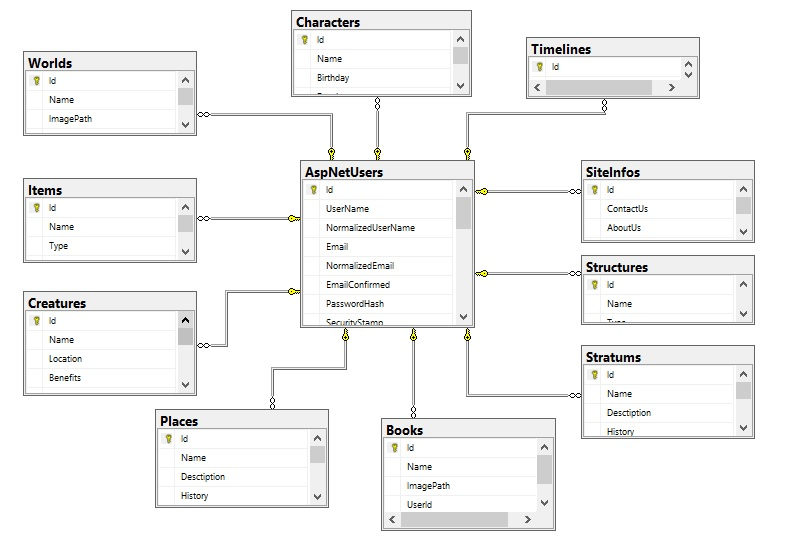
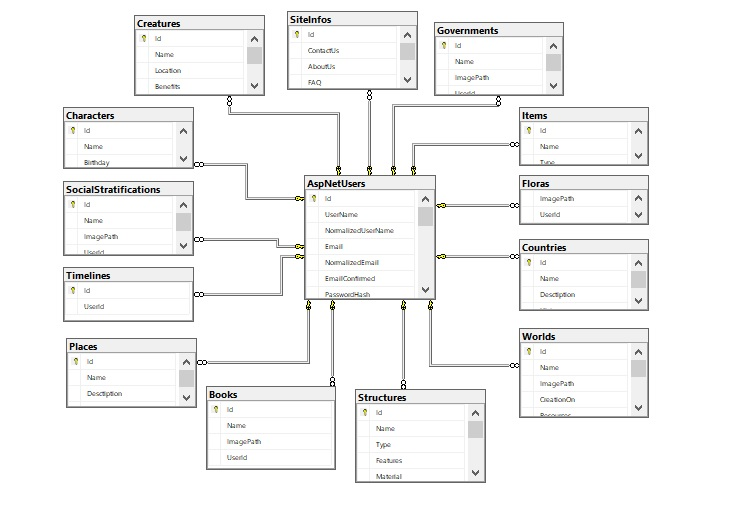
Added new classes: Country, Flora, Government Renamed class "Stratum" to "SocialStratification" Tidying-up (Refactoring)

Changed region(s): [[0.0308, 0.0, 0.9558, 1.0]]

diff --git a/WritersCorner.Data/Context/WritersCornerContext.cs b/WritersCorner.Data/Context/WritersCornerContext.cs
@@ -19,10 +19,13 @@ namespace WritersCorner.Data.Context
 
         #region Book connections
         public DbSet<Character> Characters { get; set; }
+        public DbSet<Country> Countries { get; set; }
         public DbSet<Creature> Creatures { get; set; }
+        public DbSet<Flora> Floras { get; set; }
+        public DbSet<Government> Governments { get; set; }
         public DbSet<Item> Items { get; set; }
         public DbSet<Place> Places { get; set; }
-        public DbSet<Stratum> Stratums { get; set; }
+        public DbSet<SocialStratification> SocialStratifications { get; set; }
         public DbSet<Structure> Structures { get; set; }
         public DbSet<Timeline> Timelines { get; set; }
         public DbSet<World> Worlds { get; set; }
@@ -36,10 +39,13 @@ namespace WritersCorner.Data.Context
         {
             #region Book Configurations
             modelBuilder.ApplyConfiguration(new CharacterConfiguration());
+            modelBuilder.ApplyConfiguration(new CountryConfiguration());
             modelBuilder.ApplyConfiguration(new CreatureConfiguration());
+            modelBuilder.ApplyConfiguration(new FloraConfiguration());
+            modelBuilder.ApplyConfiguration(new GovernmentConfiguration());
             modelBuilder.ApplyConfiguration(new ItemConfiguration());
             modelBuilder.ApplyConfiguration(new PlaceConfiguration());
-            modelBuilder.ApplyConfiguration(new StratumConfiguration());
+            modelBuilder.ApplyConfiguration(new CountryConfiguration());
             modelBuilder.ApplyConfiguration(new StructureConfiguration());
             modelBuilder.ApplyConfiguration(new TimelineConfiguration());
             modelBuilder.ApplyConfiguration(new WorldConfiguration());
@@ -51,10 +57,13 @@ namespace WritersCorner.Data.Context
 
             modelBuilder.UpdateUsers();
             modelBuilder.UpdateCharacter();
+            modelBuilder.UpdateCountry();
             modelBuilder.UpdateCreature();
+            modelBuilder.UpdateFlora();
+            modelBuilder.UpdateGovernment();
             modelBuilder.UpdateItem();
             modelBuilder.UpdatePlace();
-            modelBuilder.UpdateStratum();
+            modelBuilder.UpdateSocialStratification();
             modelBuilder.UpdateStructure();
             modelBuilder.UpdateWorld();
             modelBuilder.UpdateSiteInfo();

diff --git a/WritersCorner.Data/Entities/User.cs b/WritersCorner.Data/Entities/User.cs
@@ -14,10 +14,13 @@ namespace WritersCorner.Data.Entities
             this.Book = new List<Book>();
 
             this.Characters = new List<Character>();
+            this.Countries = new List<Country>();
             this.Creatures = new List<Creature>();
             this.Items = new List<Item>();
+            this.Governments = new List<Government>();
+            this.Items = new List<Item>();
             this.Places = new List<Place>();
-            this.Stratums = new List<Stratum>();
+            this.SocialStratifications = new List<SocialStratification>();
             this.Structures = new List<Structure>();
             this.Timelines = new List<Timeline>();
             this.Worlds = new List<World>();
@@ -37,16 +40,21 @@ namespace WritersCorner.Data.Entities
         public DateTime? BanRemovedDate { get; set; }
 
 
+        #region Lists
         public ICollection<SiteInfo> SiteInfo { get; set; }
 
         public ICollection<Book> Book { get; set; }
         public ICollection<Character> Characters { get; set; }
+        public ICollection<Country> Countries { get; set; }
         public ICollection<Creature> Creatures { get; set; }
+        public ICollection<Flora> Floras { get; set; }
+        public ICollection<Government> Governments { get; set; }
         public ICollection<Item> Items { get; set; }
         public ICollection<Place> Places { get; set; }
-        public ICollection<Stratum> Stratums { get; set; }
+        public ICollection<SocialStratification> SocialStratifications { get; set; }
         public ICollection<Structure> Structures { get; set; }
         public ICollection<Timeline> Timelines { get; set; }
         public ICollection<World> Worlds { get; set; }
+        #endregion
     }
 }

diff --git a/WritersCorner.Data/Context/Configurations/UserConfiguration.cs b/WritersCorner.Data/Context/Configurations/UserConfiguration.cs
@@ -19,6 +19,15 @@ namespace WritersCorner.Data.Context.Configurations
             builder.HasMany(c => c.Characters)
                 .WithOne(b => b.User);
 
+            builder.HasMany(c => c.Countries)
+                .WithOne(b => b.User);
+
+            builder.HasMany(c => c.Floras)
+                .WithOne(b => b.User);
+
+            builder.HasMany(c => c.Governments)
+                .WithOne(b => b.User);
+
             builder.HasMany(c => c.Creatures)
                 .WithOne(b => b.User);
 
@@ -28,7 +37,7 @@ namespace WritersCorner.Data.Context.Configurations
             builder.HasMany(c => c.Places)
                 .WithOne(b => b.User);
 
-            builder.HasMany(c => c.Stratums)
+            builder.HasMany(c => c.SocialStratifications)
                 .WithOne(b => b.User);
 
             builder.HasMany(c => c.Structures)

diff --git a/WritersCorner.Data/Context/Configurations/BookConfigurations/SocialStratificationConfiguration.cs b/WritersCorner.Data/Context/Configurations/BookConfigurations/SocialStratificationConfiguration.cs
@@ -4,16 +4,16 @@ using WritersCorner.Data.Entities.EntitiesBook;
 
 namespace WritersCorner.Data.Context.Configurations.BookConfigurations
 {
-    public class PlaceConfiguration : IEntityTypeConfiguration<Place>
+    public class SocialStratificationConfiguration : IEntityTypeConfiguration<SocialStratification>
     {
-        public void Configure(EntityTypeBuilder<Place> builder)
+        public void Configure(EntityTypeBuilder<SocialStratification> builder)
         {
-            builder.HasKey(p => p.Id);
+            builder.HasKey(c => c.Id);
 
             builder.Property(n => n.Name);
 
             builder.HasOne(u => u.User)
-                .WithMany(p => p.Places);
+                .WithMany(ss => ss.SocialStratifications);
         }
     }
 }

diff --git a/WritersCorner.Data/Context/Configurations/BookConfigurations/FloraConfiguration.cs b/WritersCorner.Data/Context/Configurations/BookConfigurations/FloraConfiguration.cs
@@ -4,16 +4,16 @@ using WritersCorner.Data.Entities.EntitiesBook;
 
 namespace WritersCorner.Data.Context.Configurations.BookConfigurations
 {
-    public class PlaceConfiguration : IEntityTypeConfiguration<Place>
+    public class FloraConfiguration : IEntityTypeConfiguration<Flora>
     {
-        public void Configure(EntityTypeBuilder<Place> builder)
+        public void Configure(EntityTypeBuilder<Flora> builder)
         {
-            builder.HasKey(p => p.Id);
+            builder.HasKey(c => c.Id);
 
-            builder.Property(n => n.Name);
+            builder.Property(bn => bn.Name);
 
             builder.HasOne(u => u.User)
-                .WithMany(p => p.Places);
+                .WithMany(c => c.Floras);
         }
     }
 }

diff --git a/WritersCorner.Data/Context/Configurations/BookConfigurations/GovernmentConfiguration.cs b/WritersCorner.Data/Context/Configurations/BookConfigurations/GovernmentConfiguration.cs
@@ -4,16 +4,16 @@ using WritersCorner.Data.Entities.EntitiesBook;
 
 namespace WritersCorner.Data.Context.Configurations.BookConfigurations
 {
-    public class PlaceConfiguration : IEntityTypeConfiguration<Place>
+    public class GovernmentConfiguration : IEntityTypeConfiguration<Government>
     {
-        public void Configure(EntityTypeBuilder<Place> builder)
+        public void Configure(EntityTypeBuilder<Government> builder)
         {
-            builder.HasKey(p => p.Id);
+            builder.HasKey(c => c.Id);
 
             builder.Property(n => n.Name);
 
             builder.HasOne(u => u.User)
-                .WithMany(p => p.Places);
+                .WithMany(g => g.Governments);
         }
     }
 }

diff --git a/WritersCorner.Data/Context/Configurations/BookConfigurations/CountryConfiguration.cs b/WritersCorner.Data/Context/Configurations/BookConfigurations/CountryConfiguration.cs
@@ -4,16 +4,16 @@ using WritersCorner.Data.Entities.EntitiesBook;
 
 namespace WritersCorner.Data.Context.Configurations.BookConfigurations
 {
-    public class StratumConfiguration : IEntityTypeConfiguration<Stratum>
+    public class CountryConfiguration : IEntityTypeConfiguration<Country>
     {
-        public void Configure(EntityTypeBuilder<Stratum> builder)
+        public void Configure(EntityTypeBuilder<Country> builder)
         {
             builder.HasKey(s => s.Id);
 
             builder.Property(bn => bn.Name);
 
             builder.HasOne(u => u.User)
-                .WithMany(s => s.Stratums);
+                .WithMany(c => c.Countries);
         }
     }
 }

diff --git a/WritersCorner.Data/Entities/EntitiesBook/SocialStratification.cs b/WritersCorner.Data/Entities/EntitiesBook/SocialStratification.cs
@@ -1,0 +1,20 @@
+using WritersCorner.Data.Contracts;
+
+namespace WritersCorner.Data.Entities.EntitiesBook
+{
+    public class SocialStratification : IGeneral
+    {
+        public int Id { get; set; }
+        public string Name { get; set; }
+        public string ImagePath { get; set; }
+        public string UserId { get; set; }
+        public User User { get; set; }
+
+        //TODO
+
+        //Адаптивност
+        //Физика
+        //Интелект
+        //Раса??
+    }
+}

diff --git a/WritersCorner.Data/DbSeed/CountrySeed.cs b/WritersCorner.Data/DbSeed/CountrySeed.cs
@@ -3,11 +3,11 @@ using WritersCorner.Data.Entities.EntitiesBook;
 
 namespace WritersCorner.Data.DbSeed
 {
-    public static class StratumSeed
+    public static class CountrySeed
     {
-        public static void UpdateStratum(this ModelBuilder modelBuilder)
+        public static void UpdateCountry(this ModelBuilder modelBuilder)
         {
-            modelBuilder.Entity<Stratum>().HasData(new Stratum
+            modelBuilder.Entity<Country>().HasData(new Country
             {
                 Id = 1,
 

diff --git a/WritersCorner.Data/Entities/EntitiesBook/Government.cs b/WritersCorner.Data/Entities/EntitiesBook/Government.cs
@@ -1,14 +1,15 @@
-using WritersCorner.Data.Entities;
+using WritersCorner.Data.Contracts;
 
-namespace WritersCorner.Data.Contracts
+namespace WritersCorner.Data.Entities.EntitiesBook
 {
-    public interface IGeneral
+    public class Government : IGeneral
     {
         public int Id { get; set; }
         public string Name { get; set; }
         public string ImagePath { get; set; }
-
         public string UserId { get; set; }
         public User User { get; set; }
+
+        //TODO
     }
 }

diff --git a/WritersCorner.Data/Entities/EntitiesBook/Flora.cs b/WritersCorner.Data/Entities/EntitiesBook/Flora.cs
@@ -1,14 +1,15 @@
-using WritersCorner.Data.Entities;
+using WritersCorner.Data.Contracts;
 
-namespace WritersCorner.Data.Contracts
+namespace WritersCorner.Data.Entities.EntitiesBook
 {
-    public interface IGeneral
+    public class Flora : IGeneral
     {
         public int Id { get; set; }
         public string Name { get; set; }
         public string ImagePath { get; set; }
-
         public string UserId { get; set; }
         public User User { get; set; }
+
+        //TODO
     }
 }

diff --git a/WritersCorner.Data/DbSeed/SocialStratificationSeed.cs b/WritersCorner.Data/DbSeed/SocialStratificationSeed.cs
@@ -1,0 +1,18 @@
+using Microsoft.EntityFrameworkCore;
+using WritersCorner.Data.Entities.EntitiesBook;
+
+namespace WritersCorner.Data.DbSeed
+{
+    public static class SocialStratificationSeed
+    {
+        public static void UpdateSocialStratification(this ModelBuilder modelBuilder)
+        {
+            modelBuilder.Entity<SocialStratification>().HasData(new SocialStratification
+            {
+                Id = 1,
+                //TODO
+
+            });
+        }
+    }
+}
